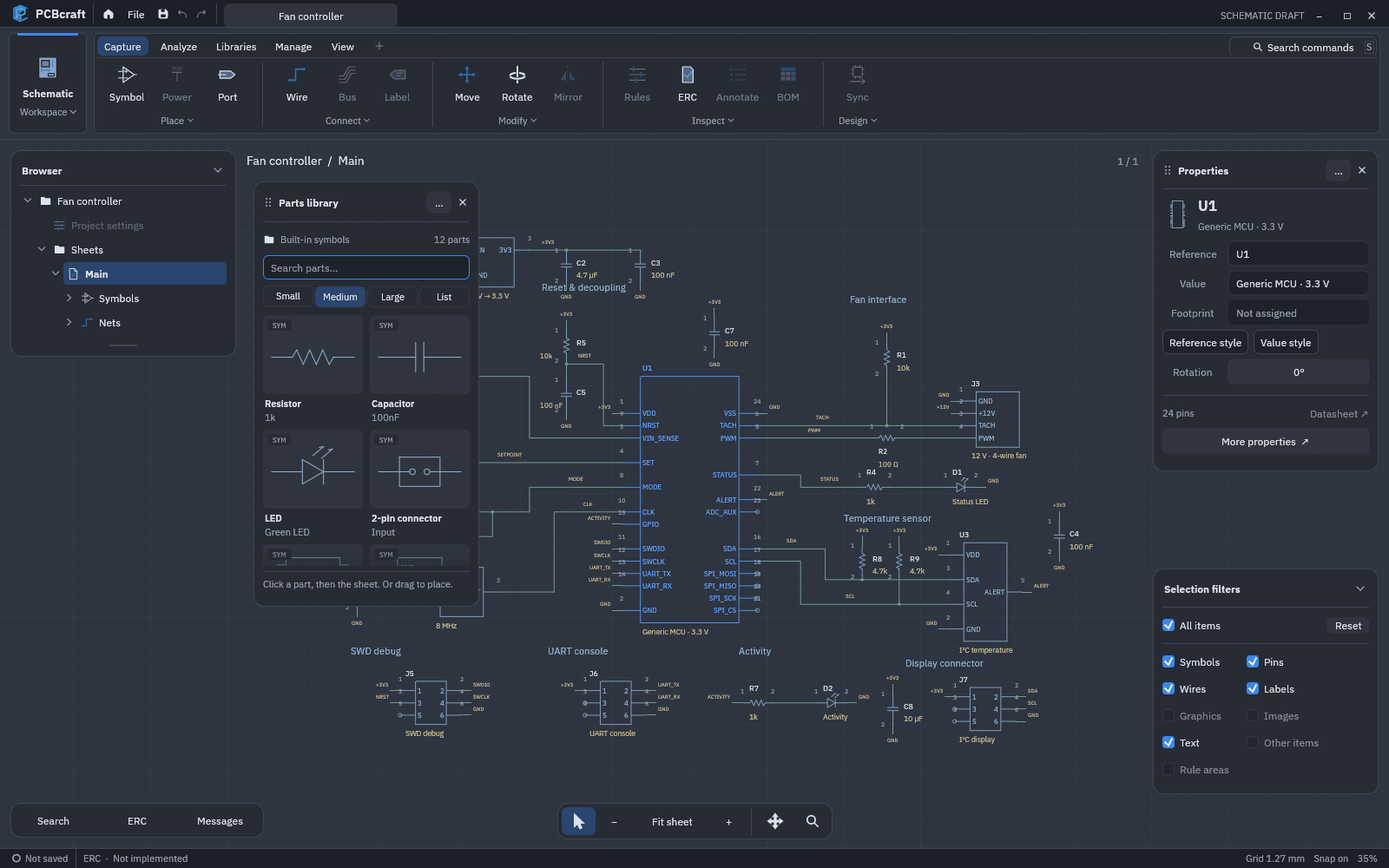
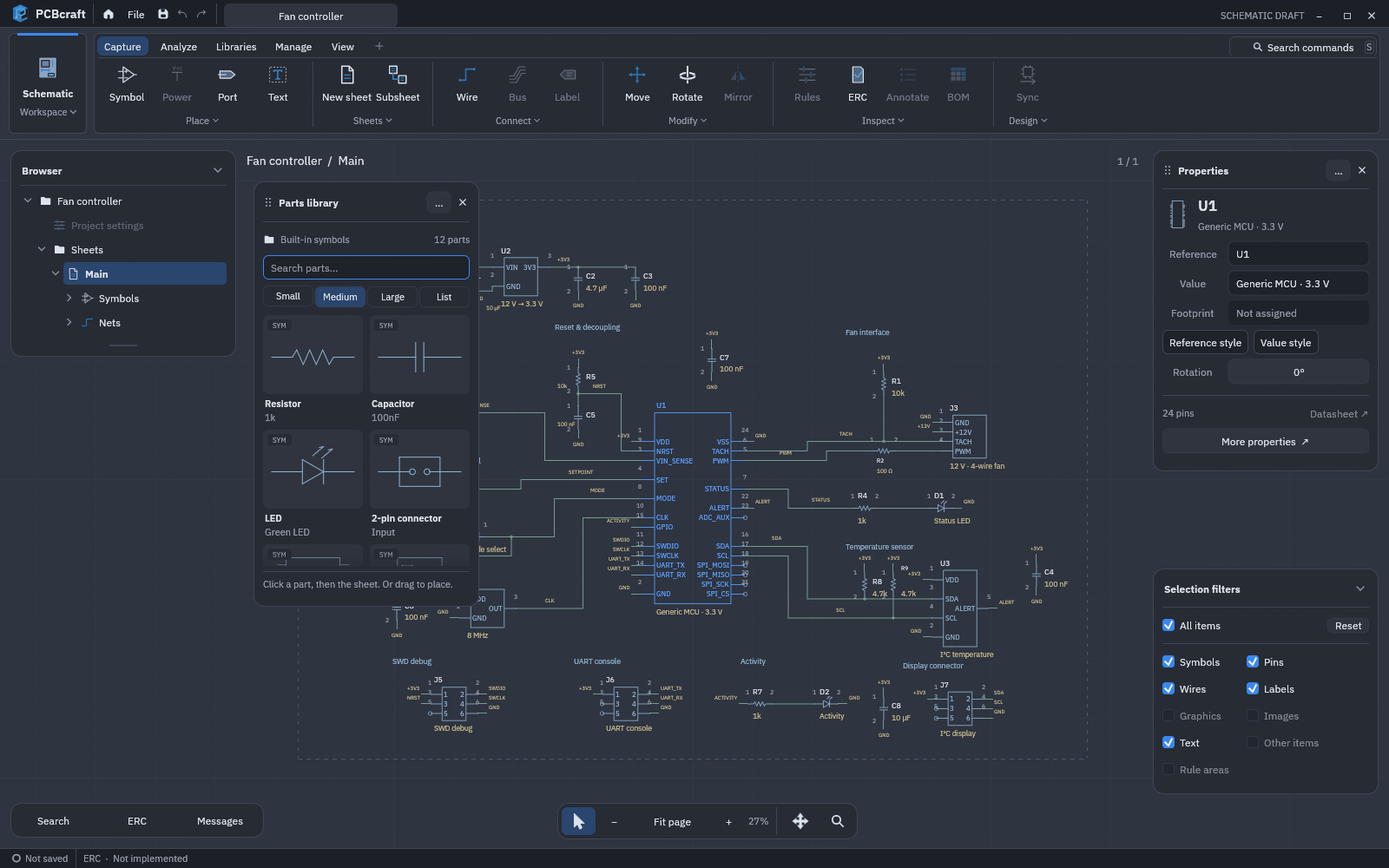
docs: refresh page placement and grid workflow guidance
Update usage, format migration, provenance and UI acceptance notes. Refresh real desktop README captures and the still-state GIF tour. Local links and media decoding verified.

diff --git a/docs/desktop-guide.md b/docs/desktop-guide.md
@@ -9,8 +9,9 @@ illustrate editing; the example is not an electrically validated design.
 
 Press **A** to open the Parts library. Search by name/value and choose Small,
 Medium, Large or List view. Click a thumbnail then the sheet, or drag a part onto
-the sheet. The library stays open for further placement. Eight built-in generic
-definitions work offline; external catalog libraries are not implemented.
+the sheet. Clicking a thumbnail starts a cursor preview that repeats after each
+canvas click; right-click/Esc finishes. Drag-and-drop remains a single drop.
+The library stays open. Twelve built-in generic definitions work offline; external catalog libraries are not implemented.
 
 Drag placed symbols to move them, **R** to rotate and **Delete** to remove them.
 Edit reference/value in Properties and click **Apply changes**. **More properties**
@@ -31,7 +32,7 @@ runs; conflicting net names reject the edit. Crossings alone do not connect.
 Select a wire then **Delete** to remove it. Right-click for contextual actions.
 See [wire editing](wire-editing.md) for exact behavior and limits.
 
-Click **Nets** beneath a sheet in Browser to open its searchable result table.
+Expand **Nets** beneath a sheet in Browser to select its nets directly. The Search drawer offers a separate searchable result table.
 Click a result or wire to highlight its connections and edit its name in Properties.
 Connection removal offers a review before committing; Undo restores the change.
 **Search → Nets → Netlist… → Copy JSON** generates a connectivity report.
@@ -44,14 +45,33 @@ selects enclosed items; right-to-left includes touched items. Shift adds; Ctrl
 toggles. Drag a selected group to move it, or Delete to remove it, as one undoable
 edit. A stationary right-click opens the context menu.
 
-**T** or **Capture → Place → Text** adds a sheet note at the last canvas position.
+**T** or **Capture → Place → Text** starts a text cursor with a dashed frame.
+Drag to size a text box, or click for a 48 × 18 mm box. Nothing is created until
+release/click. Edit its contents in Properties; box width wraps text and minimum
+height grows to keep all text visible. The tool remains active for repeated placement.
+Right-click or Esc finishes without creating another object.
 Click a note, component reference/value or net label to edit its content, font,
 physical height, italic/underline, offset and optional web link in Properties.
 Drag text to reposition it; Ctrl-click opens a saved HTTP(S) link. **Apply** commits
 one undoable edit; **Reset** reloads current text. See [selection and text](selection-and-text.md).
 
-**Esc** cancels the active tool, **F** fits the drawing, scroll zooms and middle-drag
-pans. **Ctrl+Z / Ctrl+Shift+Z** undo/redo; **Ctrl+S / Ctrl+O** save/open.
+**Esc** or right-click cancels placement. **F** fits circuit content; **Shift+F**
+or the navigation strip's **Fit page** frames the complete page. Wheel zoom responds
+immediately around the pointer; middle-drag pans. Zoom percentage is beside navigation.
+
+**View → Grid** contains visibility, Snap and the current spacing button. Choose
+0.254, 0.5, 0.635, 1, 1.27, 2.54 or 5.08 mm. Placement/movement uses the chosen
+spacing; changing it does not move existing circuitry. Dense grid lines thin out
+visually at overview zoom without changing snap spacing. These are session-local
+view settings, not electronics edits.
+
+**View → Page → Page setup** selects A4/A3/A2/Letter and orientation. Page size is
+saved per sheet definition and undoable; shared occurrences use the same page.
+The Page group menu selects **Always / Automatic / Off** for the dashed guide.
+Automatic shows nearby edge segments during placement/dragging. Content can remain
+outside the page; no clipping, repositioning or printing/export is implied.
+
+ **Ctrl+Z / Ctrl+Shift+Z** undo/redo; **Ctrl+S / Ctrl+O** save/open.
 **S** opens command search, with arrows to choose, Enter to run, Tab to fill and
 Esc to dismiss. Shortcuts defer to focused text fields.
 
@@ -73,9 +93,9 @@ top grip vertically to resize it, and use its chevron to collapse it. The chosen
 height is retained when reopening or changing tabs during the current session. ERC currently
 shows availability, not electrical-check results.
 
-Use **Manage → Sheets → New sheet / Subsheet**, or browser context menus, to create
+Use **Capture → Sheets → New sheet / Subsheet** (also under Manage), or browser context menus, to create
 flat or hierarchical sheets. Choose a new definition or reuse an existing one.
-**Capture → Port** adds interface ports; parent pins update automatically. Wire
+**Capture → Place → Port** adds interface ports; parent pins update automatically. Wire
 those anchors with **W**, drag sheet symbols/ports to move them, and double-click
 a sheet symbol to enter its child. Properties and context menus offer rename/edit
 and reviewed deletion. All sheets share undo/redo and one `.pc` save. Existing

diff --git a/docs/sheet-workflows.md b/docs/sheet-workflows.md
@@ -6,9 +6,11 @@ save authorities at runtime. Layout and cross-view rendering remain future work.
 
 ## Use the editor
 
-- **Manage → Sheets → New sheet** creates a flat sheet at project level.
-- **Manage → Sheets → Subsheet** creates a child of the active sheet and a
-  corresponding sheet symbol in its parent. Creation opens the child.
+- **Capture → Sheets → New sheet** (also under Manage) creates a flat sheet at project level.
+- **Capture → Sheets → Subsheet** (also under Manage) configures a child block.
+  **Place on sheet** starts a cursor preview; click in the parent to create it.
+  Further clicks create more blocks with unique suffixed names. Stay in the parent;
+  right-click/Esc finishes, then double-click a block to open its child.
 - The **Project / Sheets / sheet context menus** expose the same creation actions;
   a sheet context menu also offers rename, interface ports and reviewed deletion.
 - In either creation dialog, choose a new empty definition or reuse an existing
@@ -20,9 +22,10 @@ save authorities at runtime. Layout and cross-view rendering remain future work.
   siblings; children nest beneath their parent. Camera and component selection
   are retained per occurrence during the current session. The breadcrumb and
   sheet count track the active occurrence.
-- **Capture → Place → Port** adds a named interface port at the last canvas
-  position. Add its input/output/bidirectional/passive direction, then wire the
-  port anchor using **W**, just like a component pin. Direction is recorded;
+- **Capture → Place → Port** configures a named interface port and direction.
+  **Place on sheet** starts its preview; click to place, repeat as needed, and
+  right-click/Esc to finish. Names gain a numeric suffix for additional ports.
+  Wire the port anchor using **W**, just like a component pin. Direction is recorded;
   it does not imply ERC has run.
 - Parent sheet symbols expose matching port anchors automatically. Wire their
   pins in the parent to connect parent and child circuits. Adding, renaming,
@@ -103,8 +106,8 @@ not KiCad/SPICE interchange or an electrical validation report.
 
 ## Persistence, limits and acceptance
 
-The desktop now saves `pcbcraft-project-draft/6`, with a complete project envelope.
-The bounded v1–5 single-sheet reader migrates old files; legacy single-sheet APIs
+The desktop now saves `pcbcraft-project-draft/7`, with a complete project envelope, persisted page presets and optional text-box dimensions.
+The bounded single-sheet v1–6 and project v6 readers migrate old files; legacy single-sheet APIs
 reject hierarchy/multiple-sheet files instead of silently dropping content. Strict
 validation rejects dangling mappings, missing occurrences, cycles, duplicate branch
 names/IDs, unsupported fields and invalid coordinates. Limits are 64 definitions,
@@ -126,3 +129,17 @@ annotation, global labels, buses, ERC, KiCad hierarchy interchange or board layo
 Sheet/port moves currently use their own dedicated selection/drag controls; they
 are not included in component/wire/text group moves. These bounds are intentional,
 not hidden claims of full hierarchical EDA compatibility.
+
+## Page and placement contracts
+
+A4, A3 (default), A2 and Letter page presets plus orientation belong to the sheet
+**definition**. View → Page changes them through the project session, with stale
+revision checks and undo. The frame is centered at the document origin and never
+moves/clips content. Old files receive the new default guide without asserting
+that they previously had A3 intent. Guide visibility, camera and grid are view state.
+
+Choosing a placement command, moving its preview or cancelling does not create
+parts, ports or child sheets. Each canvas click is one undoable transaction. Undo,
+reopen or a different sheet/revision invalidates pending sheet-object placement.
+Fresh child definitions stay independent; explicitly reused definitions stay shared.
+Flat sheet creation has no canvas object to position and opens the new sheet directly.

diff --git a/docs/ui-audit.md b/docs/ui-audit.md
@@ -177,3 +177,41 @@ shared theme/control roles remain in use.
 
 An original layered-board/P mark replaces the chip in the title bar and supplies
 the native OS window icon. See [original asset provenance](../assets/original/README.md).
+
+## Page composition, deliberate placement and ribbon controls
+
+The user's density correction supersedes the compact-demo arrangement above.
+Reviewed their actual `schematic-proximity-guide.png` and `schematic-sheet-boundary.png`
+pixels, plus the read-only `proximity_guide.py` and `sheet_boundary_view.py` recipes.
+The circuit now has wider group spacing inside a fixed A3 landscape guide.
+Dashed edges use a semantic theme role; Always/Automatic/Off behavior is independent
+of saved page size and electrical validity. Auto reveals nearby edge segments while
+placing/dragging. Page edges are clipped before dash tessellation at high zoom.
+
+Capture now keeps Port and Text in Place, with New sheet/Subsheet in an adjacent
+Sheets group. At compact widths, planned Power/Bus/Label/Rules/BOM tools remain
+in their group menus instead of squeezing working labels. View has a Grid group:
+visibility, snap and spacing presets. Zoom percentage sits beside the navigation
+controls, with no grid/snap cluster in the bottom-right status corner.
+
+Symbols, ports, subsheets and text preview under the cursor; click/release commits,
+right-click/Esc cancels, repeated clicks keep placement active. New flat sheets
+open directly. Subsheet blocks stay in the parent until explicitly opened. Text
+uses a text cursor and dashed box while dragging; its width and minimum height
+are saved and editable in Properties. Taller text grows rather than disappearing.
+The original text/subsheet glyphs and existing registered family grid master are
+used instead of a list icon or board-layout icon.
+
+Native captures reviewed at `work/proof/page-{schematic,compact,view,view-compact,
+text-placement,library,commands}.png` cover 1600×1000/1000×700, the dedicated Grid
+controls and real text placement preview. The two extra capture flags are
+`--capture-view` and `--capture-text-placement`; the latter injects a primary-pointer
+drag into the inactive proof window, without creating a document note. These are
+real rendered UI captures, not composited mockups. README captures are refreshed.
+
+Validation: 94 desktop/core tests, 38 headless tests, formatting, Cargo check/build
+and Clippy. New contracts cover page migration/shared definitions/undo, raw wheel
+anchor and no idle tail, bounded guide painting, ribbon/dialog dispatch, repeated
+placement/cancellation/stale drafts, box persistence and real pointer sizing,
+and grid spacing/snap. Curated demo text/wire clearance passes at both sizes.
+This is not a performance benchmark, electrical validation or a general arranger.

diff --git a/docs/adr/0002-schematic-draft.md b/docs/adr/0002-schematic-draft.md
@@ -49,7 +49,7 @@ and retained unchanged in the executable. Definition set 2 adds four original
 multi-pin generic modules. Placing one into a version 1 draft upgrades the set in
 the same transaction; undo restores the prior aggregate. The version 5 envelope
 reader accepts version 1–4 files. Version 1 envelopes cannot contain version 2
-module/annotation/link-alias data; legacy single-sheet saves emitted version 5; the desktop now emits project version 6 (below). Version 1 drawings/terminal semantics must not
+module/annotation/link-alias data; legacy single-sheet saves emitted version 5; the desktop now emits project version 7 (below). Version 1 drawings/terminal semantics must not
 silently change. A future general library snapshot format must migrate these
 definitions explicitly. No manufacturer identity, package or footprint is implied.
 
@@ -148,7 +148,7 @@ No second document/history authority or new dependencies are introduced.
 
 ## Version 6: complete schematic projects
 
-The desktop now uses `pcbcraft-project-draft/6` and whole-project IO. The project
+The desktop now uses `pcbcraft-project-draft/7` and whole-project IO. The project
 aggregate contains sheet definitions, an explicit occurrence tree, parent sheet
 symbols and stable interface ports. Wires may terminate at component pins,
 junctions, child ports or parent sheet pins. One Session owns the aggregate and
@@ -160,3 +160,17 @@ or multi-sheet v6 input rather than lose data. Whole-project saves retain the
 existing 4 MiB bound, external-byte-change check and atomic replacement behavior.
 This experimental strict JSON schema still does not settle the final native EDA
 container, and adds no KiCad, recovery, layout or manufacturing compatibility.
+
+## Page geometry and text boxes
+
+Project draft 7 and single-sheet draft 6 add optional per-definition `page`
+(size preset/orientation; omitted default is A3 landscape) and note appearance
+`box_size` (nanometre wrap width/minimum height). Both use the Electronics session
+and are undoable. Box dimensions are bounded to 0.5–500 mm and only apply to notes.
+Text grows vertically to preserve content; the page itself never clips geometry.
+
+Readers still accept project draft 6 and single-sheet drafts 1–5. Migration leaves
+positions and identities intact; old files receive the current default page guide.
+New page/box data cannot be smuggled into old format envelopes. Unknown page sizes,
+invalid dimensions and unsupported fields fail validation. Grid/snap spacing and
+guide visibility remain session-local view state; manufacturing output is unrelated.

diff --git a/docs/fan-controller-demo.md b/docs/fan-controller-demo.md
@@ -36,7 +36,7 @@ version 3: Controller24, DigitalTemperatureSensor, Oscillator and Header6. Exist
 catalog version 1/2 definitions retain their geometry and pin identities. Placing
 a newer type upgrades the document's catalog version in the same undo transaction.
 Older files remain readable; older applications cannot open catalog-3 documents.
-The native project envelope remains version 6.
+The native project envelope is now version 7; legacy version 6 remains readable.
 
 Local routes are authored orthogonal segments with explicit junctions. Remote
 signals/power use explicit alias edges; equal text alone never establishes a net.
@@ -46,7 +46,7 @@ Net names prefer a sufficiently long horizontal run; GND names sit below it.
 Reference/value positions for vertical components leave more space from rails.
 
 Measured render tests check reference/value clearance from authored wires at
-1000×700 and 1600×1000, plus text-to-text clearance at 1600×1000. Notes also clear the authored wires. Fit-sheet is an
+1000×700 and 1600×1000, plus text-to-text clearance at 1600×1000. Notes also clear the authored wires. Fit-page is an
 overview: net names, values and pin detail appear from 25% zoom, avoiding crowded
 minimum-size labels at compact widths. These checks
 protect this curated example, not arbitrary user drawings. General automatic
@@ -56,3 +56,9 @@ Opening a new example uses this composition. Existing saved projects keep their
 own placements and text settings. The renderer still supplies bounded display
 routes for un-authored links; authored routes follow the manual wire editor's
 behavior. See [wire editing](wire-editing.md).
+
+The current composition uses an A3 landscape page with a quiet dashed boundary.
+Functional groups have wider gaps and shorter local clusters around the controller;
+the page supplies a stable composition frame instead of packing parts to the window.
+The input values and sensor pull-up reference have explicit clearance offsets.
+F fits content; Shift+F fits the page. Existing saved placements are unchanged.

diff --git a/docs/implementation-status.md b/docs/implementation-status.md
@@ -106,7 +106,7 @@ an explicit early milestone in [its spec](specs/ai-authoring.md), not inferred f
 the existence of a headless command enum.
 
 Undo is limited to 32 whole-project snapshots and is not persisted. Autosave, crash
-recovery, cross-process file locking and general migrations remain work. The version 6 project reader migrates
+recovery, cross-process file locking and general migrations remain work. The version 7 project reader migrates
 versions 1–5, preserving symbol definitions and path/alias presentation while assigning
 legacy notes durable identities. Version 5 stores text appearance and web links. External-edit comparison is not a lock against a simultaneous
 writer between comparison and replacement. Saved drafts pin the built-in catalog
@@ -162,3 +162,18 @@ The loose wire-edge count and permanent scroll instruction footer are removed.
 Only the existing Main sheet is real: **New sheet / New subsheet** are disabled
 with explanations. No multi-sheet schema or hierarchical connectivity is claimed.
 See [sheet workflow prerequisites](sheet-workflows.md).
+
+## Page, placement and grid follow-up
+
+Capture exposes New sheet/Subsheet in Sheets, and Port/Text in Place. Symbol, port,
+subsheet and text tools preview under the cursor and repeat until right-click/Esc.
+Subsheet blocks stay in the parent while placing; flat sheets still open directly.
+Text supports dragging out a box, saved wrap width/minimum height, and undoable
+creation/resizing. Preview movement/cancellation is not a document mutation.
+
+View contains a dedicated Grid group with spacing presets, visibility and Snap,
+plus saved page size/orientation and session-local dashed guide modes. Grid/snap
+readouts were removed from the status corner; zoom is beside navigation. Navigation
+uses immediate raw wheel deltas anchored at the pointer. Authored wire paths skip
+unneeded obstacle collection. These are targeted improvements, not a benchmark or
+a general schematic arranger. The original demo now uses more space within A3.

diff --git a/docs/selection-and-text.md b/docs/selection-and-text.md
@@ -29,8 +29,13 @@ remote aliases. Clicking their displayed labels still edits the explicit net.
 ## Text and links
 
 Press **T**, use **Capture → Place → Text**, command search **Add text**, or
-right-click empty sheet space → **Add text**. The shortcut/ribbon use the last
-canvas position; the context menu uses its invocation point. New notes open Properties.
+right-click empty sheet space → **Place text**. These enter placement mode, with
+a text cursor and dashed preview. Drag to set the box size or click to place a
+48 × 18 mm box. Release commits one note and its dimensions atomically and opens
+Properties. Repeat placement until right-click or Esc; cancelling creates nothing.
+The inspector exposes box width and minimum height. Text wraps to width and grows
+vertically when needed, so it is never silently clipped. Existing unboxed notes
+retain their prior presentation. Box size/formatting use the same save/undo authority.
 
 Click a sheet note, component reference/value, or displayed net label to edit it.
 The component inspector also offers **Reference style / Value style**; net Properties
@@ -52,8 +57,9 @@ Ctrl-click on a saved web link takes precedence over Ctrl-toggle selection.
 
 Reference uniqueness, name/connectivity consistency, bounded content, physical size
 and coordinate limits are validated before commit. Text inspector drafts reject
-stale revisions or reopened sessions. New native **v5** saves text IDs, appearance
-and links; v1–4 files remain readable. See [ADR 0002](adr/0002-schematic-draft.md).
+stale revisions or reopened sessions. Native project draft 7 / single-sheet draft 6
+save box dimensions as well as text IDs, appearance and links. Project draft 6
+and older single-sheet drafts remain readable. See [ADR 0002](adr/0002-schematic-draft.md).
 
 ## Limits and verification
 

diff --git a/docs/screenshots/README.md b/docs/screenshots/README.md
@@ -5,8 +5,8 @@ fan-controller example. They are not FigCraft concept images, SolidCraft screens
 or an AI-generated design. The example is an editing illustration, not an
 electrically validated reference circuit.
 
-Captured November 3, 2026 on Linux from desktop code at
-`c4dd083baaf0b3505f80560c1f2249fc5115e73d` (egui/eframe 0.36.2).
+Captured on Linux from desktop code at
+`a405c1209a189aa78f23c08948f328b0f675b5b7` (egui/eframe 0.36.2).
 The three PNGs are unmodified 1600 × 1000 app captures. The GIF retains that size
 and uses a shared 256-color palette. No UI or circuit content was composited.
 
@@ -20,7 +20,9 @@ and uses a shared 256-color palette. No UI or circuit content was composited.
 The GIF is a **tour of captured states**, not a recording of pointer motion or
 completed edits. The main README keeps the animation in an expandable section and
 links all static alternatives. The frames were visually reviewed, and duration,
-dimensions and decoding checked. Total image size is approximately 1.7 MB.
+dimensions and decoding checked. The captures include the roomier A3 page composition, dashed page guide, and
+Capture sheet/text tools. Supplemental native Grid and text-placement captures
+are recorded in the [UI audit](../ui-audit.md).
 
 SolidCraft's [README at the reference pin](https://github.com/tangency-labs/solidcraft/blob/c553365a2197a689e749389a6fbf707a38df9b61/README.md)
 informed the product introduction, real-app media, caption and build/status layout.

diff --git a/docs/sources.md b/docs/sources.md
@@ -293,3 +293,19 @@ exact c553365 source modules, narrow adaptations, licenses and replacement plan.
 PCBcraft owns the electronics command list, state and workspace composition.
 This adds another explicitly attributed UI-source adaptation, not a whole-app
 copy or a new dependency. No KiCad implementation or preserved GPL fork was read.
+
+## Page, placement and navigation follow-up
+
+Reviewed the user's `designs/schematic-proximity-guide.png` and
+`designs/schematic-sheet-boundary.png` pixels, and their `proximity_guide.py` /
+`sheet_boundary_view.py` source recipes read-only. The quiet dashed guide, optional
+proximity mode and independent drawing page inform original PCBcraft implementation.
+No user design was edited or executed.
+
+Read SolidCraft's [navigation.rs at c553365](https://github.com/tangency-labs/solidcraft/blob/c553365a2197a689e749389a6fbf707a38df9b61/crates/ui-egui/src/navigation.rs)
+for immediate raw wheel input/units and viewport navigation references. PCBcraft's
+2D pointer-anchor math, bounded page model, placement drafts and text-box editing
+are original code using existing egui APIs; no SolidCraft application dependency
+or new crate was added. Grid uses the already registered/licensed `grid.svg` master;
+text and subsheet glyphs are original. Existing font/control notices still apply.
+The preserved fork and KiCad implementation were not consulted.

diff --git a/README.md b/README.md
@@ -56,11 +56,12 @@ See the [AI authoring spec and acceptance tasks](docs/specs/ai-authoring.md#next
 ## What works today
 
 - **Schematic editing:** place, move, rotate and inspect twelve built-in symbol
-  types; select groups; edit styled notes, references, values and web links.
+  types with repeat placement; select groups; size text boxes and edit styled
+  notes, references, values and web links.
 - **Editable wiring:** start from pins, wires or empty space; add bends and
   branches; drag segments/corners; delete connections and heal compatible overlaps.
 - **Sheets and hierarchy:** flat sheets, reusable subsheets, interface ports,
-  nested navigation and occurrence-qualified connectivity.
+  nested navigation, page guides and occurrence-qualified connectivity.
 - **Net inspection:** highlight connected terminals, rename nets, review connection
   removal and copy a JSON connectivity report.
 - **Native projects:** one project-wide history and experimental `.pc` save/open,

diff --git a/docs/wire-editing.md b/docs/wire-editing.md
@@ -10,8 +10,8 @@ a visible wire, a free endpoint/junction, or empty sheet to begin. Clicking empt
 sheet adds an orthogonal leg/corner. **Space** flips the next elbow orientation;
 **Backspace** removes the last preview corner. Clicking a pin or wire finishes and
 connects. **Enter** or double-click finishes with a free endpoint. **Esc** cancels
-the unfinished wire and returns to Select; right-click cancels the preview while
-leaving the wire tool available. Nothing is saved until the wire is finished.
+the unfinished wire and returns to Select; right-click does the same without
+opening a context menu. Nothing is saved until the wire is finished.
 
 Ending on a segment splits that edge and inserts an explicit junction. Starting
 there creates a branch when finished, not when the first click happens. Ordinary crossings do not join nets. Deliberately drawing or dragging a

diff --git a/docs/implementation-plan.md b/docs/implementation-plan.md
@@ -163,7 +163,7 @@ broader component/terminal/pad contracts, atomic proposals/idempotency and full
 project asset/library storage; native encoding evolution and .pc associations;
 first KiCad/manufacturing profiles; multi-board MVP limit; density and reference-
 machine budgets. The existing Rust package/desktop target, IDs/quantity bounds and
-experimental version 6 project format are implemented subsets, not open first steps.
+experimental version 7 project format are implemented subsets, not open first steps.
 Standalone deployment and PCBcraft session ownership are decided. PCBcraft launch
 is verified; an independent upstream UI-library extraction is not.
 
